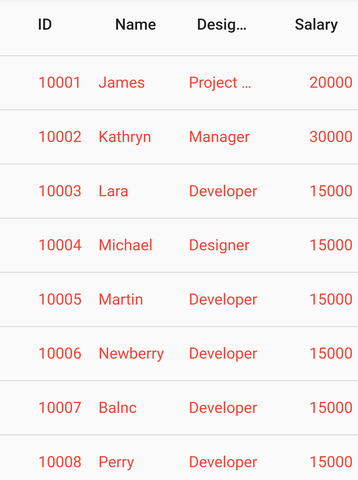
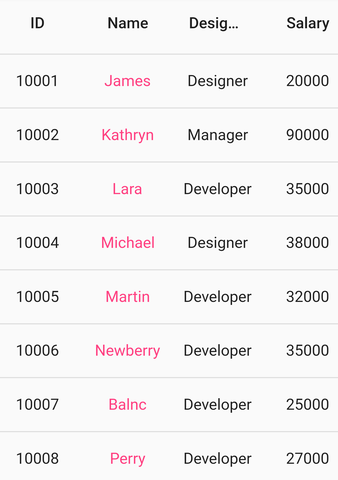
FLUT-6235-[feature][flutter]: Modified the UG content

diff --git a/Flutter/datagrid/styles.md b/Flutter/datagrid/styles.md
@@ -419,10 +419,11 @@ Widget build(BuildContext context) {
 
 ## Change the cell value color
 
-The DataGrid supports to change the datagrid cell value by setting the TextStyle color to the style property of the Text widget in the `DataGridRowAdapter`. 
+The DataGrid requires a widget for each cell from the user end. Typically, users load the [Text](https://api.flutter.dev/flutter/widgets/Text-class.html) widget to display the cell values. So that, text color can be changed by setting the [TextStyle](https://api.flutter.dev/flutter/painting/TextStyle-class.html) to the style property of the `Text` widget.
 
 {% tabs %}
 {% highlight Dart %}
+
 import 'package:syncfusion_flutter_datagrid/datagrid.dart';
 
 class EmployeeDataSource extends DataGridSource {
@@ -444,24 +445,29 @@ class EmployeeDataSource extends DataGridSource {
   @override
   List<DataGridRow> get rows => dataGridRows;
 
-  @override
+ @override
   DataGridRowAdapter? buildRow(DataGridRow row) {
     return DataGridRowAdapter(
         cells: row.getCells().map<Widget>((dataGridCell) {
+      TextStyle? getTextStyle() {
+        if (dataGridCell.columnName == 'name') {
+          return const TextStyle(color: Colors.pinkAccent);
+        } else {
+          return null;
+        }
+      }
       return Container(
-          alignment: (dataGridCell.columnName == 'id' ||
-                  dataGridCell.columnName == 'salary')
-              ? Alignment.centerRight
-              : Alignment.centerLeft,
-          padding: const EdgeInsets.symmetric(horizontal: 16.0),
+          alignment: Alignment.center,
+          padding: const EdgeInsets.symmetric(horizontal: 8.0),
           child: Text(
             dataGridCell.value.toString(),
-            style: const TextStyle(color: Colors.red),
+            style: getTextStyle(),
             overflow: TextOverflow.ellipsis,
           ));
     }).toList());
   }
 }
+
 {% endhighlight %}
 {% endtabs %}
 
